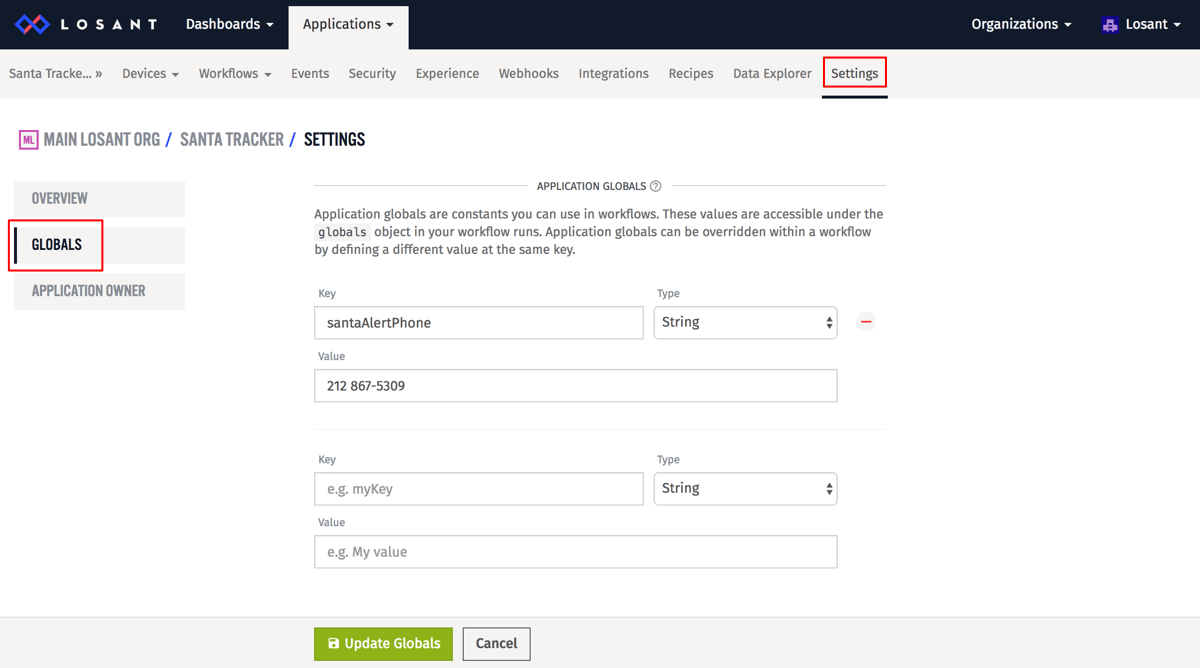
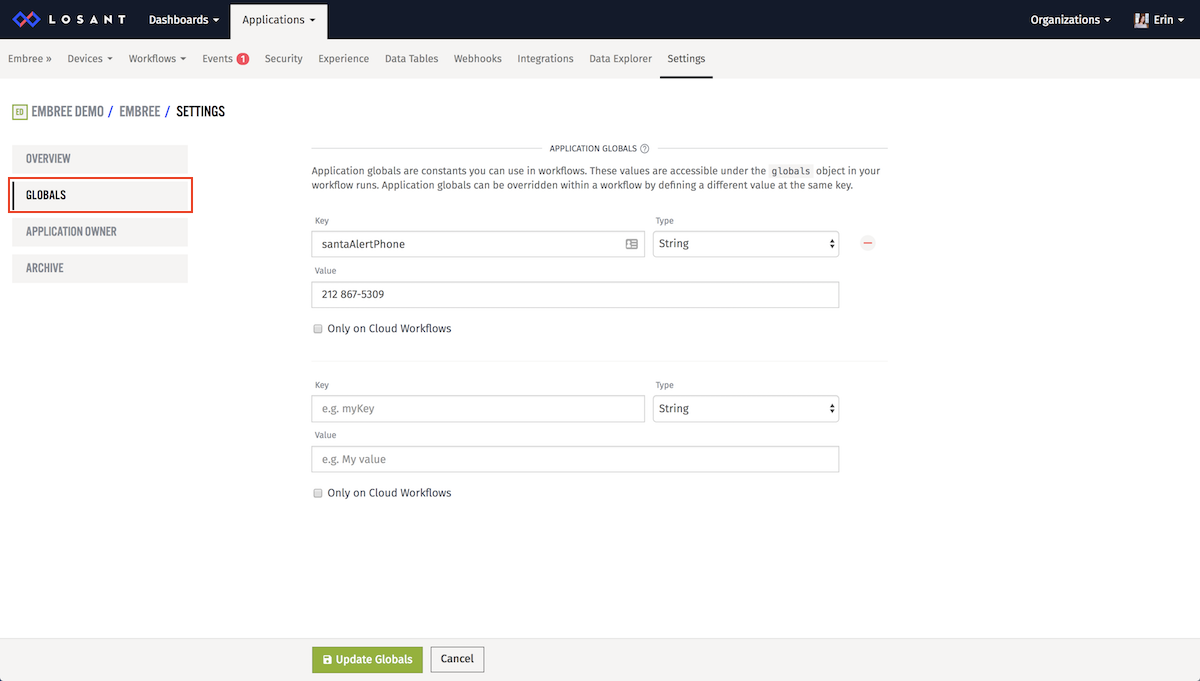
adding docs for globals, generte id, and hash

diff --git a/docs/workflows/logic/generate-id.md b/docs/workflows/logic/generate-id.md
@@ -1,0 +1,35 @@
+flowclass: Edge 1.1.0
+description: Learn more about the Losant Generate ID Node.
+
+# Generate ID
+
+The Generate ID Node allows you to generate IDs in [UUID](https://en.wikipedia.org/wiki/Universally_unique_identifier), [Object ID](https://docs.mongodb.com/manual/reference/method/ObjectId/), or [Nano ID](https://alex7kom.github.io/nano-nanoid-cc/) format and add them to your payload.
+
+![Generate ID Node](/images/workflows/logic/generate-id.png "Generate ID Node")
+
+## Configuration
+
+There are at least two required fields of the configuration for this node ...
+* **ID TYPE:** (Required) Choose an ID type
+  * UUID V1
+  * UUID V3
+  * UUID V4
+  * UUID V5
+  * Object ID
+  * Nano ID
+* **Destination Path:** (Required) A path to store the generated ID on the payload, e.g. `data.ID`
+
+### Extra Fields
+
+UUID V3, UUID V5 and Nano Id all have extra configuration fields.
+
+#### [UUID V3 & UUID V5](https://en.wikipedia.org/wiki/Universally_unique_identifier#Versions_3_and_5_(namespace_name-based)) Extra Options
+
+* **Namespace Template:** (Required) A [string template](/workflows/accessing-payload-data/#string-templates) that is a UUID to use as the namespace for the hashing to create the UUID.
+* **Value Template:** (Required) A string template combined with the namespace to create a hash to use to make the new UUID.
+
+#### Nano ID
+
+* **Number of Characters:** (Optional) A string template for setting the length of the generate ID. By default, an ID of 21 characters will be given if this is not specified. This number *must* be greater than 0 and less than 256.
+
+![Generate ID Node Configuration](/images/workflows/logic/generate-id-configuration.png "Generate ID Node Configuration")

diff --git a/docs/workflows/logic/hash.md b/docs/workflows/logic/hash.md
@@ -1,0 +1,28 @@
+flowclass: Edge 1.1.0
+description: Learn more about the Losant Hash Node.
+
+# Hash
+
+The Hash Node allows you to create a [cryptographic hash](https://en.wikipedia.org/wiki/Cryptographic_hash_function) and put it on your payload.
+
+![Hash Node](/images/workflows/logic/hash.png "Hash Node")
+
+## Configuration
+
+Configuration fields are:
+* **Data Template:** (Required) The is a [string template](/workflows/accessing-payload-data/#string-templates) that is the input data (or message) used to create the hash.
+* **Secret Template:** When this string template is supplied will create an [HMAC](https://en.wikipedia.org/wiki/HMAC), which signs this secret in hash. 
+* **Algorithm Type:** (Required) The algorithm that is used to generate the hash. This field defaults to SHA256.
+	* [MD5](https://en.wikipedia.org/wiki/MD5)
+	* [RIPEMD](https://en.wikipedia.org/wiki/RIPEMD)
+	* [SHA1](https://en.wikipedia.org/wiki/SHA-1)
+	* [SHA256](https://en.wikipedia.org/wiki/SHA-2)
+	* [SHA512](https://en.wikipedia.org/wiki/SHA-2)
+	* [Whirlpool](https://en.wikipedia.org/wiki/Whirlpool_(cryptography))
+* **Encoding Type:** (Required) The encoding the digest message should be formatted in. This field default to Hex.
+	* [Base64](https://en.wikipedia.org/wiki/Base64)
+	* [Hex](https://en.wikipedia.org/wiki/Hexadecimal)
+	* [Latin1](https://en.wikipedia.org/wiki/ISO/IEC_8859-1)
+* **Destination Path:** (Required) A path to store the hash on the payload, e.g. `data.hash`
+
+![Hash Node Configuration](/images/workflows/logic/hash-configuration.png "Hash Node Configuration")

diff --git a/docs/applications/overview.md b/docs/applications/overview.md
@@ -61,7 +61,7 @@ As a real-time tool, the Communication Log will always begin in an empty state. 
 
 ![Application Globals](/images/applications/application-globals.png "Application Globals")
 
-Application globals are a set of key/value pairs that are accessible inside of any workflow in the current application. This is a great place to store application-wide configuration that is used across multiple workflows, like phone numbers or API keys. Any values configured here are accessible under the globals object on the payload in a workflow run. Application globals can be overridden within a workflow by defining a different value at the same key in the globals for that specific workflow. You can read more about workflow globals [here](/workflows/overview/#workflow-globals).
+Application globals are a set of key/value pairs that are accessible inside of any workflow in the current application. This is a great place to store application-wide configuration that is used across multiple workflows, like phone numbers or API keys. Any values configured here are accessible under the globals object on the payload in a cloud workflow run. The globals will be accessible on the edge workflows, however, if `Only on Cloud Workflows` is checked that pair will not be available in the edge workflows. Application globals can be overridden within a workflow by defining a different value at the same key in the globals for that specific workflow. You can read more about workflow globals [here](/workflows/overview/#workflow-globals).
 
 ## Application Archive
 
